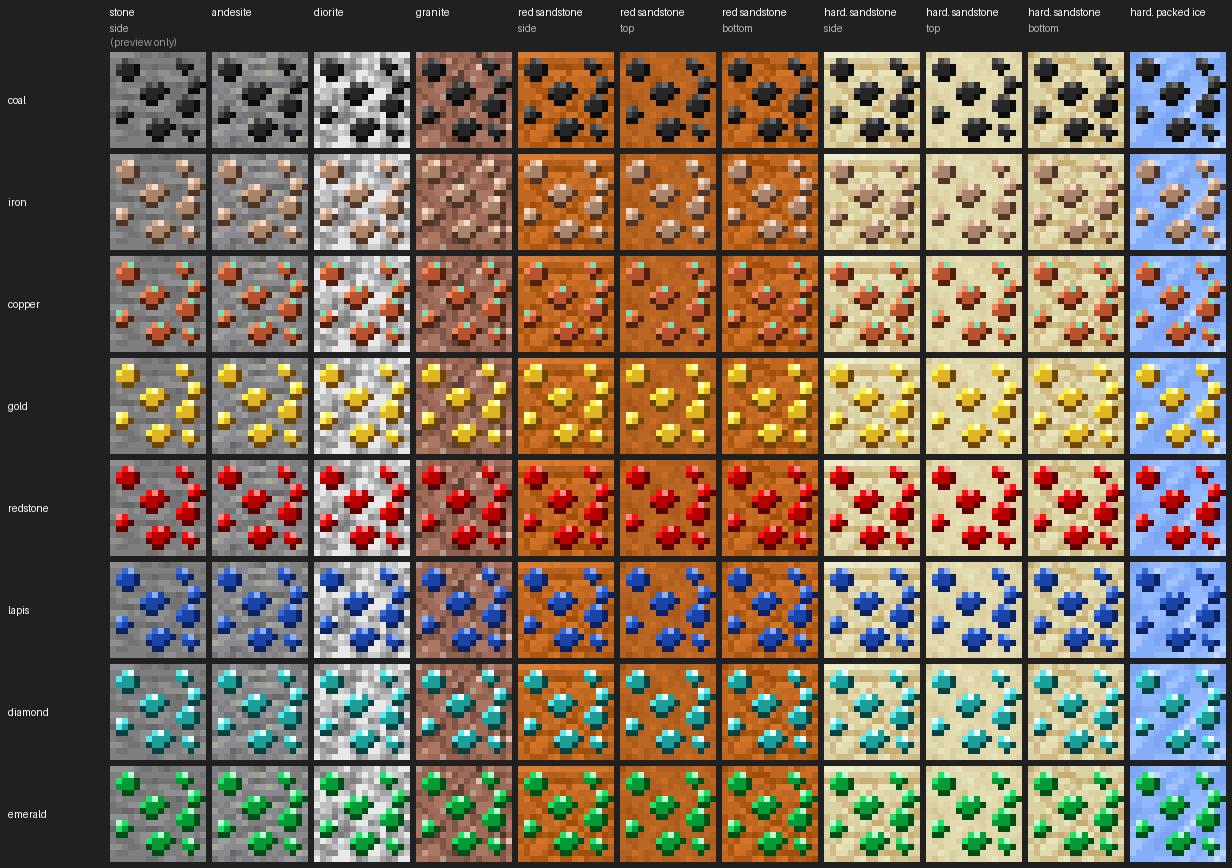
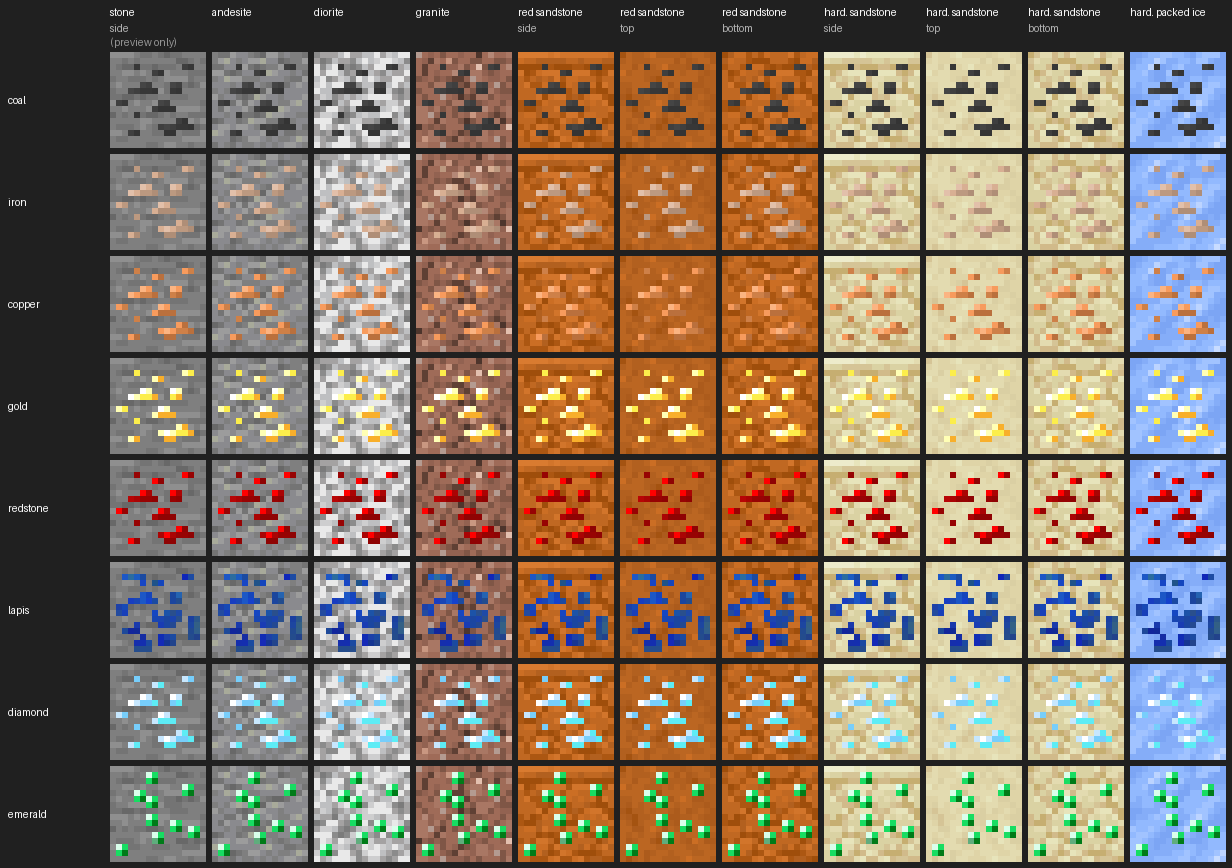
Ore variants: use the supplied old-style ore overlays
Each ore's overlay is now a supplied 16x16 image in tools/ores/overlays/
(coal, iron, copper, gold, redstone and diamond share one blob shape;
lapis and emerald have their own), named in ore_variants.json instead of
the generated pattern and palettes. build_ores.py copies and checks them;
the shape test becomes a validity test; contact sheet and overlays sheet
regenerated; docs updated.

Changed region(s): [[0.0925, 0.0622, 1.0, 0.9954]]

diff --git a/tools/ores/build_ores.py b/tools/ores/build_ores.py
@@ -4,14 +4,14 @@ vanilla game files (read from the Minecraft jar in the Gradle cache, so run a Gr
 Usage: python tools/ores/build_ores.py
 
 Writes, for every host x ore (block eternalreturn:<host>_<ore>_ore):
-- the ore's overlay texture: the shared pattern (tools/ores/pattern.txt) in the ore's palette;
+- the ore's overlay texture, copied from its overlay image (tools/ores/overlays/<ore>.png);
 - block and item models (host texture per face with the overlay on top) and the blockstate;
 - the loot table: vanilla's for the stone ore, with Silk Touch giving the variant;
 - block and item tags: eternalreturn:ore_variants (all) and eternalreturn:ore_variants/<ore>, the vanilla
   <ore>_ores tags, and the needs_*_tool tags the vanilla ore is in;
 - smelting and blasting recipes copied from the vanilla ore's (same result, experience and time), taking
   the item tag eternalreturn:ore_variants/<ore>, with their recipe-book advancements;
-- docs/worldgen-maps/ores/contact_sheet.png (every ore on every host and on plain stone) and pattern.png.
+- docs/worldgen-maps/ores/contact_sheet.png (every ore on every host and on plain stone) and overlays.png.
 See docs/worldgen.md, Ore variants. Do not hand-edit the generated files.
 """
 import glob
@@ -28,8 +28,6 @@ ROOT = os.path.abspath(os.path.join(os.path.dirname(__file__), '..', '..'))
 RES = os.path.join(ROOT, 'src', 'main', 'resources')
 NS = 'eternalreturn'
 TABLE = json.load(open(os.path.join(RES, NS, 'ore_variants.json'), encoding='utf-8'))
-PATTERN = [line.rstrip('\n') for line in open(os.path.join(os.path.dirname(__file__), 'pattern.txt'), encoding='utf-8') if line.strip()]
-assert len(PATTERN) == 16 and all(len(row) == 16 for row in PATTERN), 'pattern.txt must be 16 rows of 16 characters'
 
 JARS = glob.glob(os.path.expanduser('~/.gradle/caches/fabric-loom/1.21.1/minecraft-client.jar'))
 if not JARS:
@@ -67,13 +65,14 @@ def faces(host):
 
 
 def overlay(ore):
-    palette = ore['palette']
-    image = Image.new('RGBA', (16, 16), (0, 0, 0, 0))
-    for y, row in enumerate(PATTERN):
-        for x, role in enumerate(row):
-            if role != '.':
-                colour = palette[role].lstrip('#')
-                image.putpixel((x, y), (int(colour[0:2], 16), int(colour[2:4], 16), int(colour[4:6], 16), 255))
+    """The ore's overlay image: 16 x 16, each pixel either fully opaque or fully transparent."""
+    image = Image.open(os.path.join(ROOT, ore['overlay'])).convert('RGBA')
+    assert image.size == (16, 16), f'{ore["overlay"]} is {image.size}, not 16 x 16'
+    alphas = {pixel[3] for pixel in image.getdata()}
+    assert alphas <= {0, 255}, f'{ore["overlay"]} has half-transparent pixels ({sorted(alphas)})'
+    assert 255 in alphas, f'{ore["overlay"]} is empty'
+    # Transparent pixels carry no colour, so mipmapped edges pick up no stray colour.
+    image.putdata([pixel if pixel[3] else (0, 0, 0, 0) for pixel in image.getdata()])
     return image
 
 
@@ -185,7 +184,7 @@ for ore_name, ore in TABLE['ores'].items():
             'requirements': [['has_the_recipe', 'has_ore']],
             'rewards': {'recipes': [f'{NS}:{recipe_id}']}})
 
-# ---------------------------------------------------------------- contact sheet and pattern
+# ---------------------------------------------------------------- contact sheet and overlays
 SCALE = 6
 TILE = 16 * SCALE
 GAP = 6
@@ -226,5 +225,5 @@ for i, ore_name in enumerate(TABLE['ores']):
     backdrop = Image.new('RGBA', (16, 16), (128, 128, 128, 255))
     swatch.paste(Image.alpha_composite(backdrop, overlays[ore_name]).resize((TILE, TILE), Image.NEAREST).convert('RGB'), (x, 4))
     draw.text((x, TILE + 10), ore_name, fill=(255, 255, 255), font=font)
-swatch.save(os.path.join(docs, 'pattern.png'))
+swatch.save(os.path.join(docs, 'overlays.png'))
 print(f'{sum(len(v) for v in variants.values())} ore variants written ({len(TABLE["hosts"])} hosts x {len(TABLE["ores"])} ores)')

diff --git a/src/gametest/java/com/eternalreturn/gametest/OreVariantTests.java b/src/gametest/java/com/eternalreturn/gametest/OreVariantTests.java
@@ -51,7 +51,8 @@ import java.util.Objects;
  * sounds, tool tier and tags; the same drops and experience (vanilla's loot table with the same random
  * seeds, plain and with Fortune III, and real mining by a survival player), with Silk Touch giving the
  * variant itself; the same smelting and blasting; pick-block, creative tab and name; redstone variants
- * light up. Plus the textures: every ore's overlay has exactly the same shape.
+ * light up. Plus the textures: every ore has a 16 x 16 overlay with only fully opaque or fully
+ * transparent pixels, and every variant has its blockstate and models.
  */
 public class OreVariantTests implements FabricGameTest {
 	/** Loot seeds 1 to SEEDS (seed 0 means "no seed" to the loot code, which then uses each table's own random sequence). */
@@ -275,9 +276,7 @@ public class OreVariantTests implements FabricGameTest {
 	}
 
 	@GameTest(templateName = EMPTY_STRUCTURE)
-	public void overlaysShareOneShape(TestContext ctx) throws IOException {
-		boolean[] shape = null;
-		String first = null;
+	public void overlaysAreValid(TestContext ctx) throws IOException {
 		for (OreVariants.Ore ore : OreVariants.ores()) {
 			BufferedImage image;
 			try (InputStream in = OreVariantTests.class.getResourceAsStream("/assets/eternalreturn/textures/block/ore_overlay/" + ore.name() + ".png")) {
@@ -285,21 +284,13 @@ public class OreVariantTests implements FabricGameTest {
 				image = ImageIO.read(in);
 			}
 			ctx.assertTrue(image.getWidth() == 16 && image.getHeight() == 16, ore.name() + " overlay is " + image.getWidth() + "x" + image.getHeight());
-			boolean[] mask = new boolean[256];
 			int opaque = 0;
 			for (int i = 0; i < 256; i++) {
 				int alpha = image.getRGB(i % 16, i / 16) >>> 24;
 				ctx.assertTrue(alpha == 0 || alpha == 255, ore.name() + " overlay has half-transparent pixels");
-				mask[i] = alpha == 255;
-				opaque += mask[i] ? 1 : 0;
+				opaque += alpha == 255 ? 1 : 0;
 			}
 			ctx.assertTrue(opaque > 20 && opaque < 128, ore.name() + " overlay covers " + opaque + " pixels");
-			if (shape == null) {
-				shape = mask;
-				first = ore.name();
-			} else {
-				ctx.assertTrue(java.util.Arrays.equals(shape, mask), ore.name() + " overlay has a different shape from " + first);
-			}
 		}
 		for (OreVariants.Variant variant : OreVariants.variants()) {
 			String path = Registries.BLOCK.getId(variant.block()).getPath();

diff --git a/docs/worldgen.md b/docs/worldgen.md
@@ -350,7 +350,7 @@ Every ore has its own version in every host stone: andesite, diorite, granite, r
 
 ### One table
 
-`src/main/resources/eternalreturn/ore_variants.json` lists the ores (the vanilla stone ore, its deepslate ore, and a palette of four colours) and the hosts (the block replaced, and its textures per face). The game reads it at startup to register the blocks (`OreVariants`); `tools/ores/build_ores.py` reads it, with the shared pattern `tools/ores/pattern.txt` and the vanilla game files from the Gradle cache, to write everything else. A new ore or host stone is one entry plus a rerun of the script.
+`src/main/resources/eternalreturn/ore_variants.json` lists the ores (the vanilla stone ore, its deepslate ore, and its overlay image in `tools/ores/overlays/`) and the hosts (the block replaced, and its textures per face). The game reads it at startup to register the blocks (`OreVariants`); `tools/ores/build_ores.py` reads it, with the overlay images and the vanilla game files from the Gradle cache, to write everything else. A new ore or host stone is one entry plus a rerun of the script.
 
 What the script writes, for every variant: its blockstate, block and item models, loot table, and the overlay texture of its ore; plus the tags and recipes below and the images in `docs/worldgen-maps/ores/`.
 
@@ -402,20 +402,20 @@ Before the change 47,381 stone-textured ores sat inside host stone in these squa
 
 ### Textures: the old look
 
-Every ore uses one shared blob pattern (`tools/ores/pattern.txt`, original pixel art in the pre-1.14 style), coloured with each ore's palette of four shades: highlight, light, mid and a dark edge that keeps the blobs readable on light hosts like diorite and sandstone; copper gets green flecks, as vanilla copper ore has. The overlay is transparent everywhere else.
+Each ore's overlay is a 16 x 16 image in the pre-1.14 style, `tools/ores/overlays/<ore>.png` (supplied by the project owner): coal, iron, copper, gold, redstone and diamond share one blob shape in their own colours, and lapis and emerald have shapes of their own, as the old ores did. Each pixel is either fully opaque or fully transparent, so the host stone shows through around the blobs; the script checks this and the size when it copies them into `assets/eternalreturn/textures/block/ore_overlay/`. The overlays have no dark edge, so a light ore on a light host (iron on diorite or sandstone, diamond on packed ice) or copper on red sandstone stands out less than on stone.
 
 The block model draws the host's own texture on each face (sandstone's top, side and bottom faces where they differ) and the overlay on top, like a grass block's side overlay (`eternalreturn:block/ore_variant`, cutout render layer). The host texture is the game's `minecraft:block/andesite` and so on, so a resource pack that changes those (Golden Days, for one) changes the host under the ore too; the overlay is this mod's own and stays old-style either way.
 
-- `docs/worldgen-maps/ores/contact_sheet.png`: every ore on every host face, plus plain stone for comparison (vanilla's own ores are untouched; plain stone is there only to judge the pattern).
-- `docs/worldgen-maps/ores/pattern.png`: the shared pattern in each ore's palette.
+- `docs/worldgen-maps/ores/contact_sheet.png`: every ore on every host face, plus plain stone for comparison (vanilla's own ores are untouched; plain stone is there only to judge the overlays).
+- `docs/worldgen-maps/ores/overlays.png`: each ore's overlay on its own, over grey.
 
 ![Every ore on every host](worldgen-maps/ores/contact_sheet.png)
 
-![The shared pattern in each palette](worldgen-maps/ores/pattern.png)
+![Each ore's overlay](worldgen-maps/ores/overlays.png)
 
 ### Tests
 
-- `runGametest` (flat; also without Moderner Beta), `OreVariantTests`: every variant against its vanilla ore: hardness, blast resistance, tool requirement, sounds, block class, experience range, tool-tier and pickaxe tags, the ore tags (vanilla's and `c:ores/<ore>`), pick-block and name; the loot table generates exactly vanilla's drops for 40 seeds, with a plain and a Fortune III pickaxe, and Silk Touch gives the variant; a survival player mining each variant ten times with a diamond pickaxe gets vanilla's drop and experience in vanilla's range, and with Silk Touch the variant and no experience; harvesting with wooden to diamond pickaxes matches vanilla; smelting and blasting give vanilla's result, experience and time; the creative tab places each variant after its deepslate ore; redstone variants light up to vanilla's light level and tick; and every overlay has exactly the same shape (the same opaque pixels), with no half-transparent pixels.
+- `runGametest` (flat; also without Moderner Beta), `OreVariantTests`: every variant against its vanilla ore: hardness, blast resistance, tool requirement, sounds, block class, experience range, tool-tier and pickaxe tags, the ore tags (vanilla's and `c:ores/<ore>`), pick-block and name; the loot table generates exactly vanilla's drops for 40 seeds, with a plain and a Fortune III pickaxe, and Silk Touch gives the variant; a survival player mining each variant ten times with a diamond pickaxe gets vanilla's drop and experience in vanilla's range, and with Silk Touch the variant and no experience; harvesting with wooden to diamond pickaxes matches vanilla; smelting and blasting give vanilla's result, experience and time; the creative tab places each variant after its deepslate ore; redstone variants light up to vanilla's light level and tick; and every ore has a 16 x 16 overlay with no half-transparent pixels, and every variant its blockstate and models.
 - `runGametestEternalReturn`, `OreCensusTests`: the counts above against the baseline (`src/gametest/resources/ores/eternal_return.json`): within 1 percent per ore, the emerald survey within 15; no stone-textured ore inside host stone (an ore counts as inside when its own biome calls for a host stone and only host stone surrounds it, with no stone, tuff or fossil bone within two blocks: tuff keeps stone ores, fossils turn some bone into coal or diamond ore, and at biome borders a river's plain stone can run in a thin strip between host stone); variants of every host open to caves (cave walls show them); and a fresh desert square generated with biome stone off has no host stones and only vanilla ores.
 - Control runs (vanilla; Moderner Beta's 1.6.4, 1.6.4 amplified and Beta 1.7.3 presets; Eternal Return with biome stone off): besides the carved-terrain fingerprints, which all still match, each now decorates three more groups of chunks (ores, plants, structures), one chunk at a time in a fixed order. In the vanilla world those decorated chunks are hashed and match a fingerprint recorded from the code before this change (`vanilla_tunnel_features.json`). Moderner Beta's decoration does not repeat from run to run, even with the old code and the fixed order (two runs differ in their tuff, deepslate and clay blobs and lush-cave plants), so in its worlds the test checks instead that none of this mod's blocks (ore variants, hardened blocks) appear. Both hold: nothing changed outside Eternal Return worlds with biome stone on.
 

diff --git a/README.md b/README.md
@@ -25,7 +25,7 @@ In-game tests live in `src/gametest`, a separate test mod that is never packed i
 
 | Task | World | What runs |
 |---|---|---|
-| `runGametest` | flat | the mob, fishing and trade suites, a check that the Eternal Return world type loaded, the hardened blocks, and every ore variant against its vanilla ore (drops, Fortune, Silk Touch, experience, tool tier, smelting, tags, creative tab, redstone light, one overlay shape) |
+| `runGametest` | flat | the mob, fishing and trade suites, a check that the Eternal Return world type loaded, the hardened blocks, and every ore variant against its vanilla ore (drops, Fortune, Silk Touch, experience, tool tier, smelting, tags, creative tab, redstone light, overlay textures) |
 | `runGametestNoModernerBeta` | flat, Moderner Beta removed | the same suites, and a check that the world type is skipped cleanly |
 | `runGametestModernerBeta` | Moderner Beta, Release 1.6.4 amplified | worldgen checks (debug tunnel on, trial chambers present), carving unchanged |
 | `runGametestModernerBetaTunnelOff` | same | the same with the debug tunnel off |
@@ -126,7 +126,7 @@ Pick **World Type: Eternal Return** on the create-world screen (it is also in Mo
 
 **Biome stone.** Under the topsoil, all the way down to bedrock, the stone matches the biome above it: andesite under forests, taiga and extreme hills; diorite under birch forests; granite under jungles and savannas; hardened sandstone under deserts; red sandstone under the badlands' terracotta bands; hardened packed ice under ice plains, frozen oceans and frozen rivers. Plains, oceans, rivers, beaches, mushroom islands, swamps and dark forests keep plain stone. Borders are sharp, with no blending. Hardened sandstone and hardened packed ice look like sandstone and packed ice but mine like stone (pickaxe needed, same hardness, no melting or sliding) and drop plain sandstone or packed ice, Silk Touch or not; you can only get the hardened blocks themselves from the creative inventory. Since deserts and ice plains drop no cobblestone, sandstone, red sandstone, granite, diorite and andesite all work for stone tools, furnaces, brewing stands, dispensers, droppers, levers, observers and pistons (in every world).
 
-**Ore variants.** Every ore has its own version in each host stone: granite iron ore, hardened sandstone gold ore, andesite emerald ore and so on (6 host stones x 8 ores, 48 blocks). They mine, drop, smelt and give experience exactly like the vanilla ore (raw iron from granite iron ore, Fortune works the same), Silk Touch gives the variant itself, and they are in the Natural Blocks tab after each ore's deepslate version. Plain stone and tuff blobs keep vanilla's ores. They look like the old, pre-1.14 ores: one blob pattern for every ore in its own colours, drawn over the host stone's texture. Emerald comes from Moderner Beta's own feature, only in high ground (y 95 and up) in extreme hills, plains, swamps and ice plains, so it is rare; badlands still have their extra gold. With an old-style resource pack such as Golden Days, the host stone under each ore takes the pack's texture; the ore pattern is this mod's own and stays the same with the pack on or off.
+**Ore variants.** Every ore has its own version in each host stone: granite iron ore, hardened sandstone gold ore, andesite emerald ore and so on (6 host stones x 8 ores, 48 blocks). They mine, drop, smelt and give experience exactly like the vanilla ore (raw iron from granite iron ore, Fortune works the same), Silk Touch gives the variant itself, and they are in the Natural Blocks tab after each ore's deepslate version. Plain stone and tuff blobs keep vanilla's ores. They look like the old, pre-1.14 ores (coal, iron, copper, gold, redstone and diamond share one blob shape; lapis and emerald have their own), drawn over the host stone's texture. Emerald comes from Moderner Beta's own feature, only in high ground (y 95 and up) in extreme hills, plains, swamps and ice plains, so it is rare; badlands still have their extra gold. With an old-style resource pack such as Golden Days, the host stone under each ore takes the pack's texture; the ore pattern is this mod's own and stays the same with the pack on or off.
 
 Caves stay out of oceans and rivers, and turn to lava at y -56 and below. Vanilla's and Moderner Beta's own caves and ravines no longer generate in Eternal Return worlds; `worldgen.caves.oldCaves` brings them back. Other world types keep their normal caves.
 
@@ -342,4 +342,4 @@ Ore variants (same world, made after this update; `/gamemode spectator` and `/ef
 58. Emerald: andesite emerald ore turns up only in high extreme hills (y 95 and up), around `456 150 2248` for example (fly around the peaks); it is rare.
 59. Smelt or blast any variant: the same result, experience and time as its vanilla ore.
 60. Creative inventory, Natural Blocks: after each deepslate ore come its six variants. Or `/give @s eternalreturn:granite_iron_ore` (any of `andesite`, `diorite`, `granite`, `red_sandstone`, `hardened_sandstone`, `hardened_packed_ice`, then `_`, then `coal`, `iron`, `copper`, `gold`, `redstone`, `lapis`, `diamond` or `emerald`, then `_ore`), for example `/give @s eternalreturn:hardened_sandstone_gold_ore 16` or `/give @s eternalreturn:hardened_packed_ice_lapis_ore 16`.
-61. Old-style pack on and off: with Golden Days (or any old-style pack) on, the host stone under each ore shows the pack's texture and the ore blobs keep this mod's old-style pattern. Turn it off in Options, Resource Packs (move it back to Available, then Done): the host stones go back to vanilla's textures, the ore blobs stay the same, and vanilla's own stone ores show vanilla's modern textures again.
+61. Old-style pack on and off: with Golden Days (or any old-style pack) on, the host stone under each ore shows the pack's texture and the ore blobs keep this mod's old-style overlays. Turn it off in Options, Resource Packs (move it back to Available, then Done): the host stones go back to vanilla's textures, the ore blobs stay the same, and vanilla's own stone ores show vanilla's modern textures again.

diff --git a/CLAUDE.md b/CLAUDE.md
@@ -1,4 +1,4 @@
 - Worldgen vision and status (terrain, biomes, caves, scope, compatibility): see [docs/worldgen.md](docs/worldgen.md).
 - The Eternal Return world preset files (settings preset, noise settings, world preset, preset category and tags) are generated by `tools/worldgen/build_preset.py` from `tools/worldgen/knobs.json`. Change the script or the knobs and rerun it; do not hand-edit the generated JSON.
 - Carving and decoration (ores, plants, structures) outside Eternal Return worlds must not change: the control runs prove it (src/gametest/resources/fingerprints: carved chunks in every control world, decorated chunks in the vanilla world, and no block of this mod in the decorated chunks of the Moderner Beta worlds, whose decoration does not repeat from run to run; checked by runAllGametests). Re-record them (-PrecordFingerprints) only for an intended change to those worlds.
-- The ore variant resources (overlay textures, models, blockstates, loot tables, recipes, ore tags, the needs_*_tool tags, docs/worldgen-maps/ores) are generated by `tools/ores/build_ores.py` from `src/main/resources/eternalreturn/ore_variants.json` (which the game also reads to register the blocks) and `tools/ores/pattern.txt`. Change those and rerun it; do not hand-edit the generated files.
+- The ore variant resources (overlay textures, models, blockstates, loot tables, recipes, ore tags, the needs_*_tool tags, docs/worldgen-maps/ores) are generated by `tools/ores/build_ores.py` from `src/main/resources/eternalreturn/ore_variants.json` (which the game also reads to register the blocks) and the overlay images in `tools/ores/overlays/`. Change those and rerun it; do not hand-edit the generated files.
